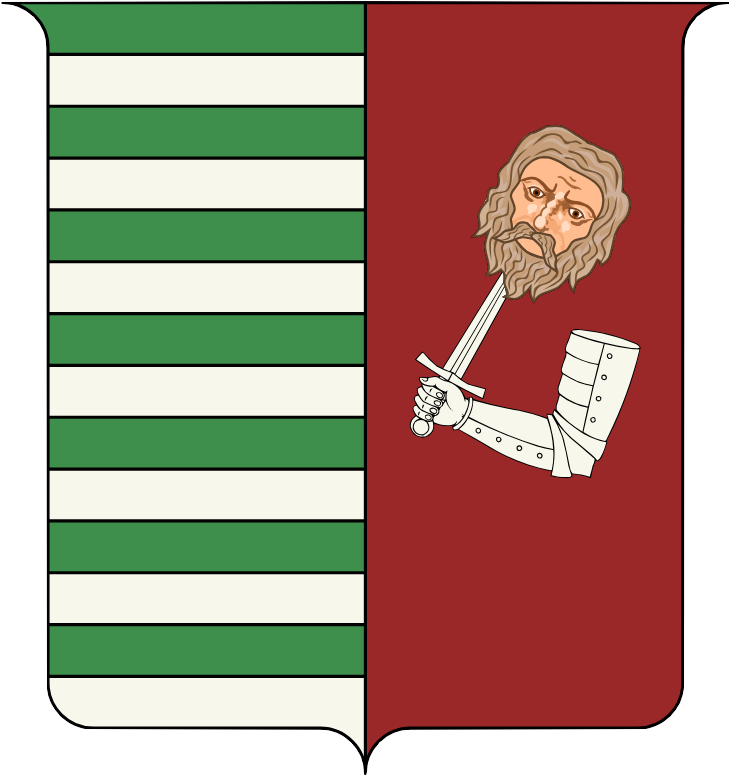
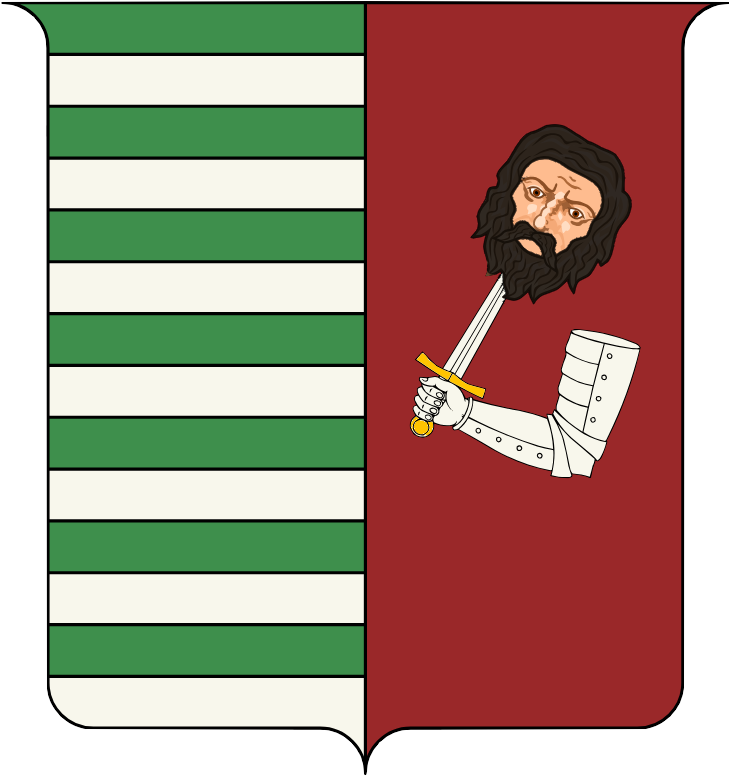
g34u

diff --git a/standartas.html b/standartas.html
@@ -132,8 +132,8 @@
 							<td>Per pale: dexter, barry of fourteen vert and argent; sinister, gules, a dexter arm couped and embowed, elbow in base, vested argent, the hand proper grasping a sabre in bend sinister argent, hilted Or, impaling a man’s head couped proper, crined and bearded sable.</td>
 						</tr>
 						<tr>
-							<th scope="rowgroup" rowspan="1">Emblazonment</th>
-							<td colspan="2" style="
+							<th scope="rowgroup" rowspan="1" colspan="2">Emblazonment</th>
+							<td colspan="1" style="
     display: flex;
     flex-wrap: nowrap;
     flex-direction: row;
